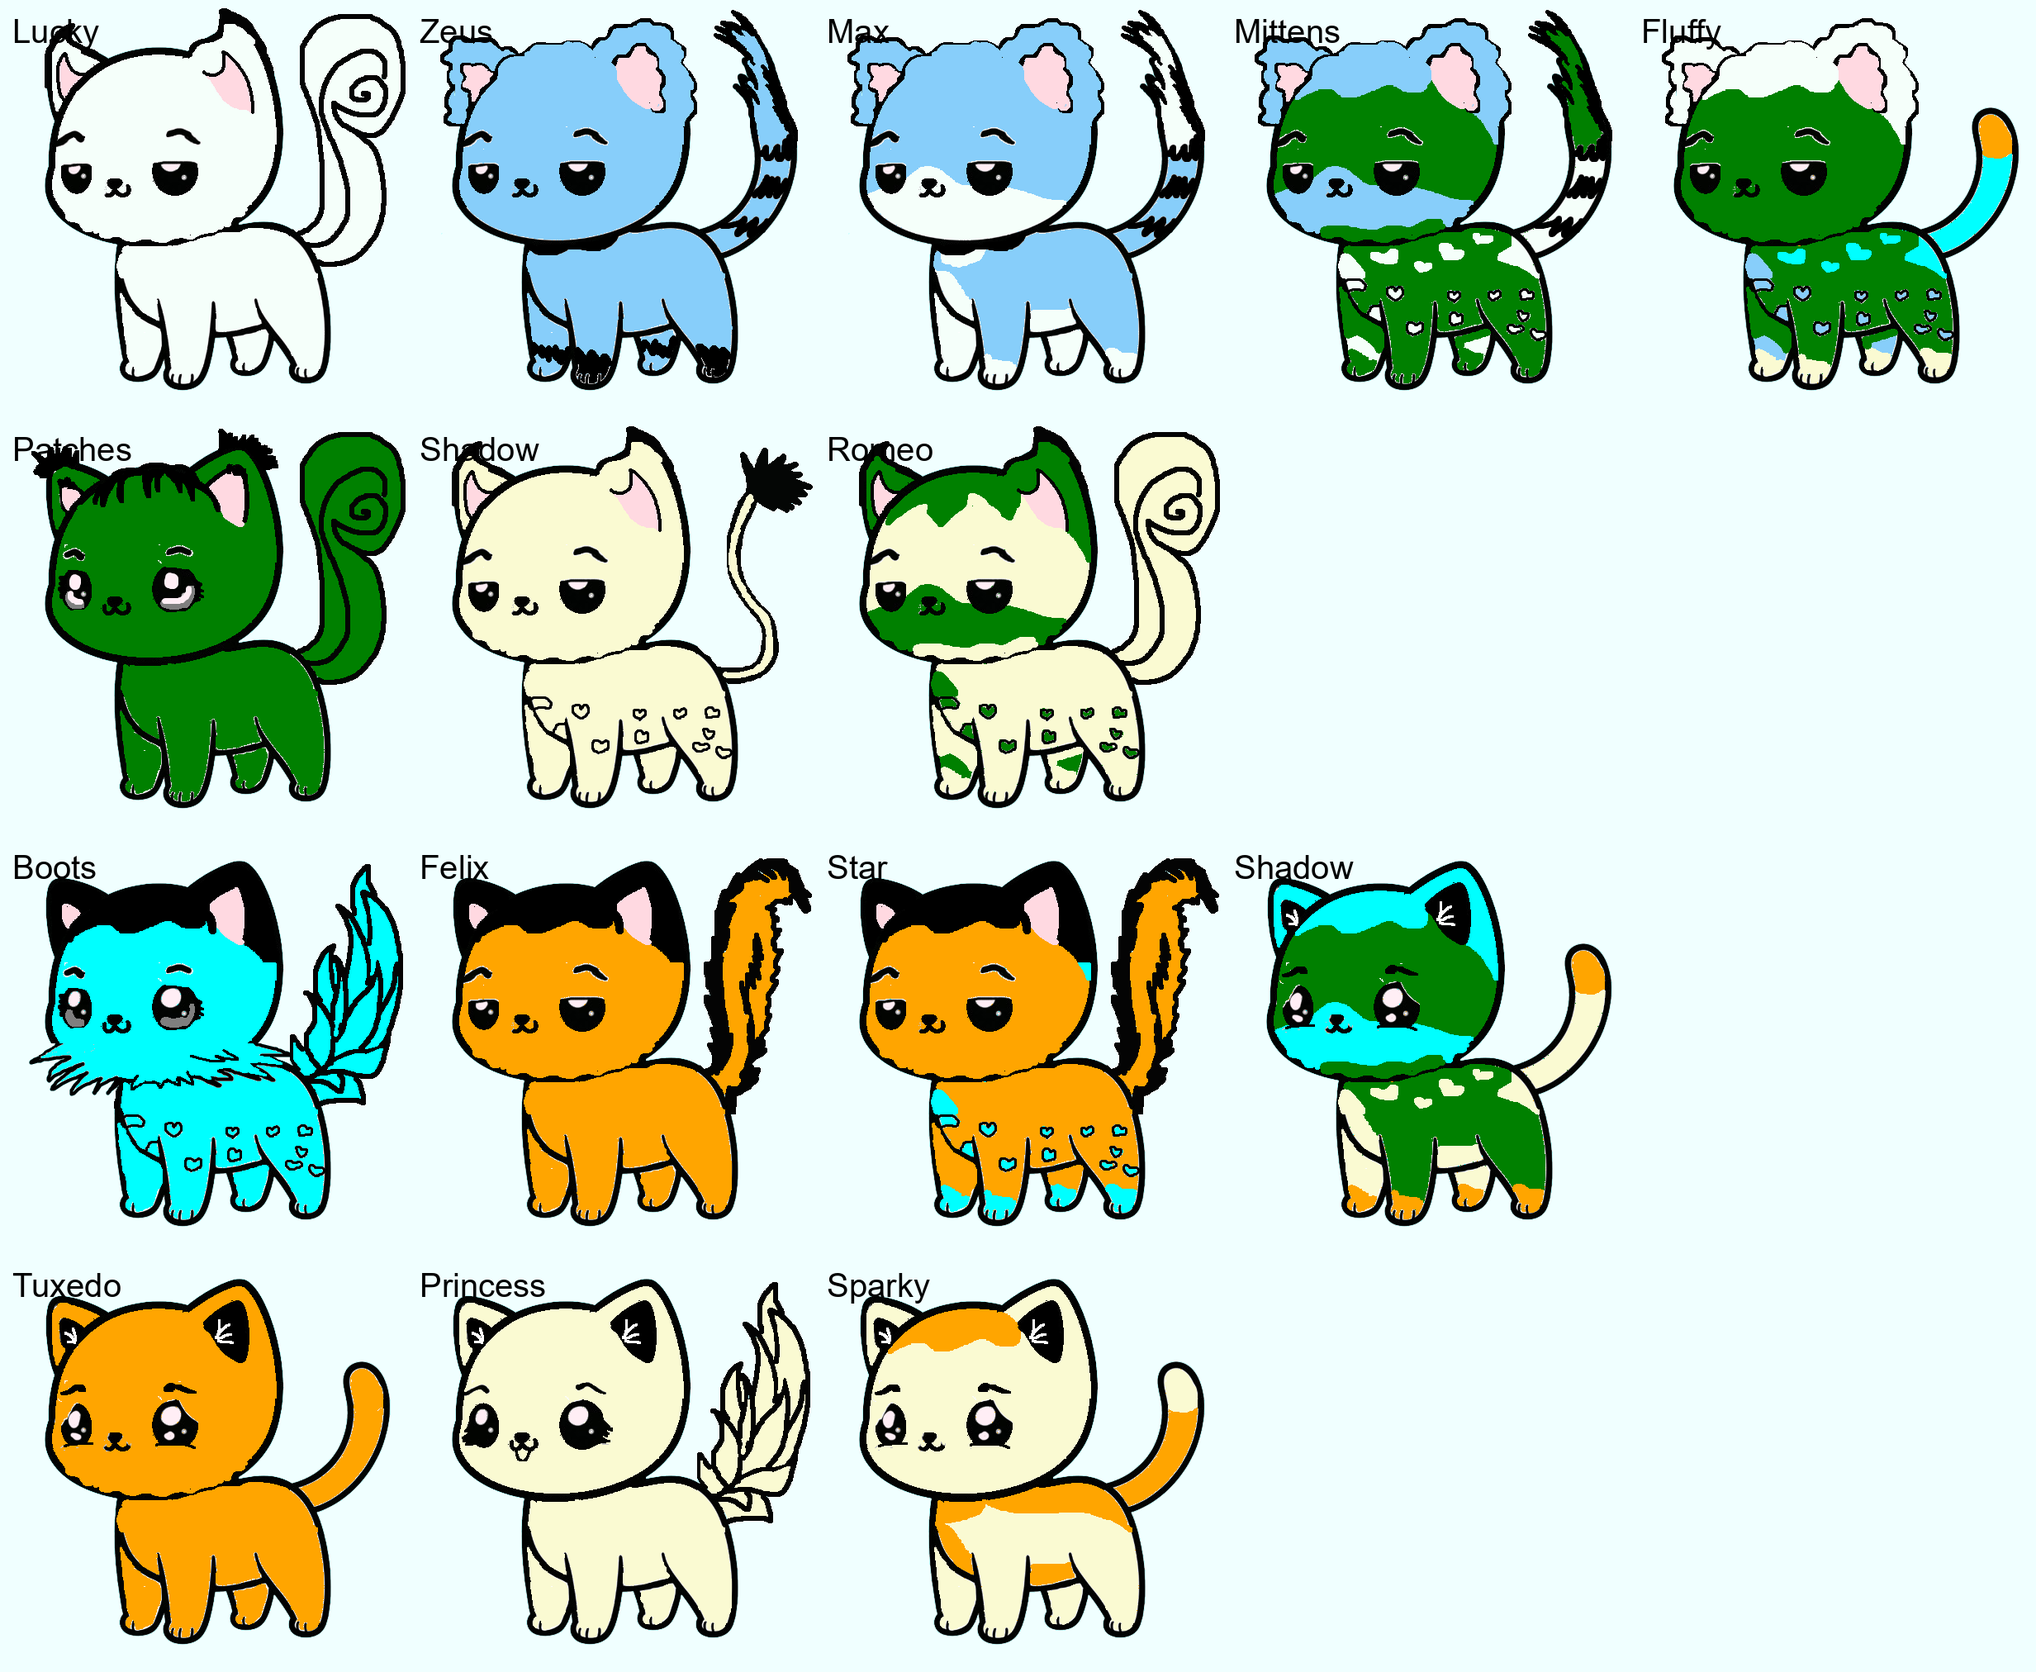
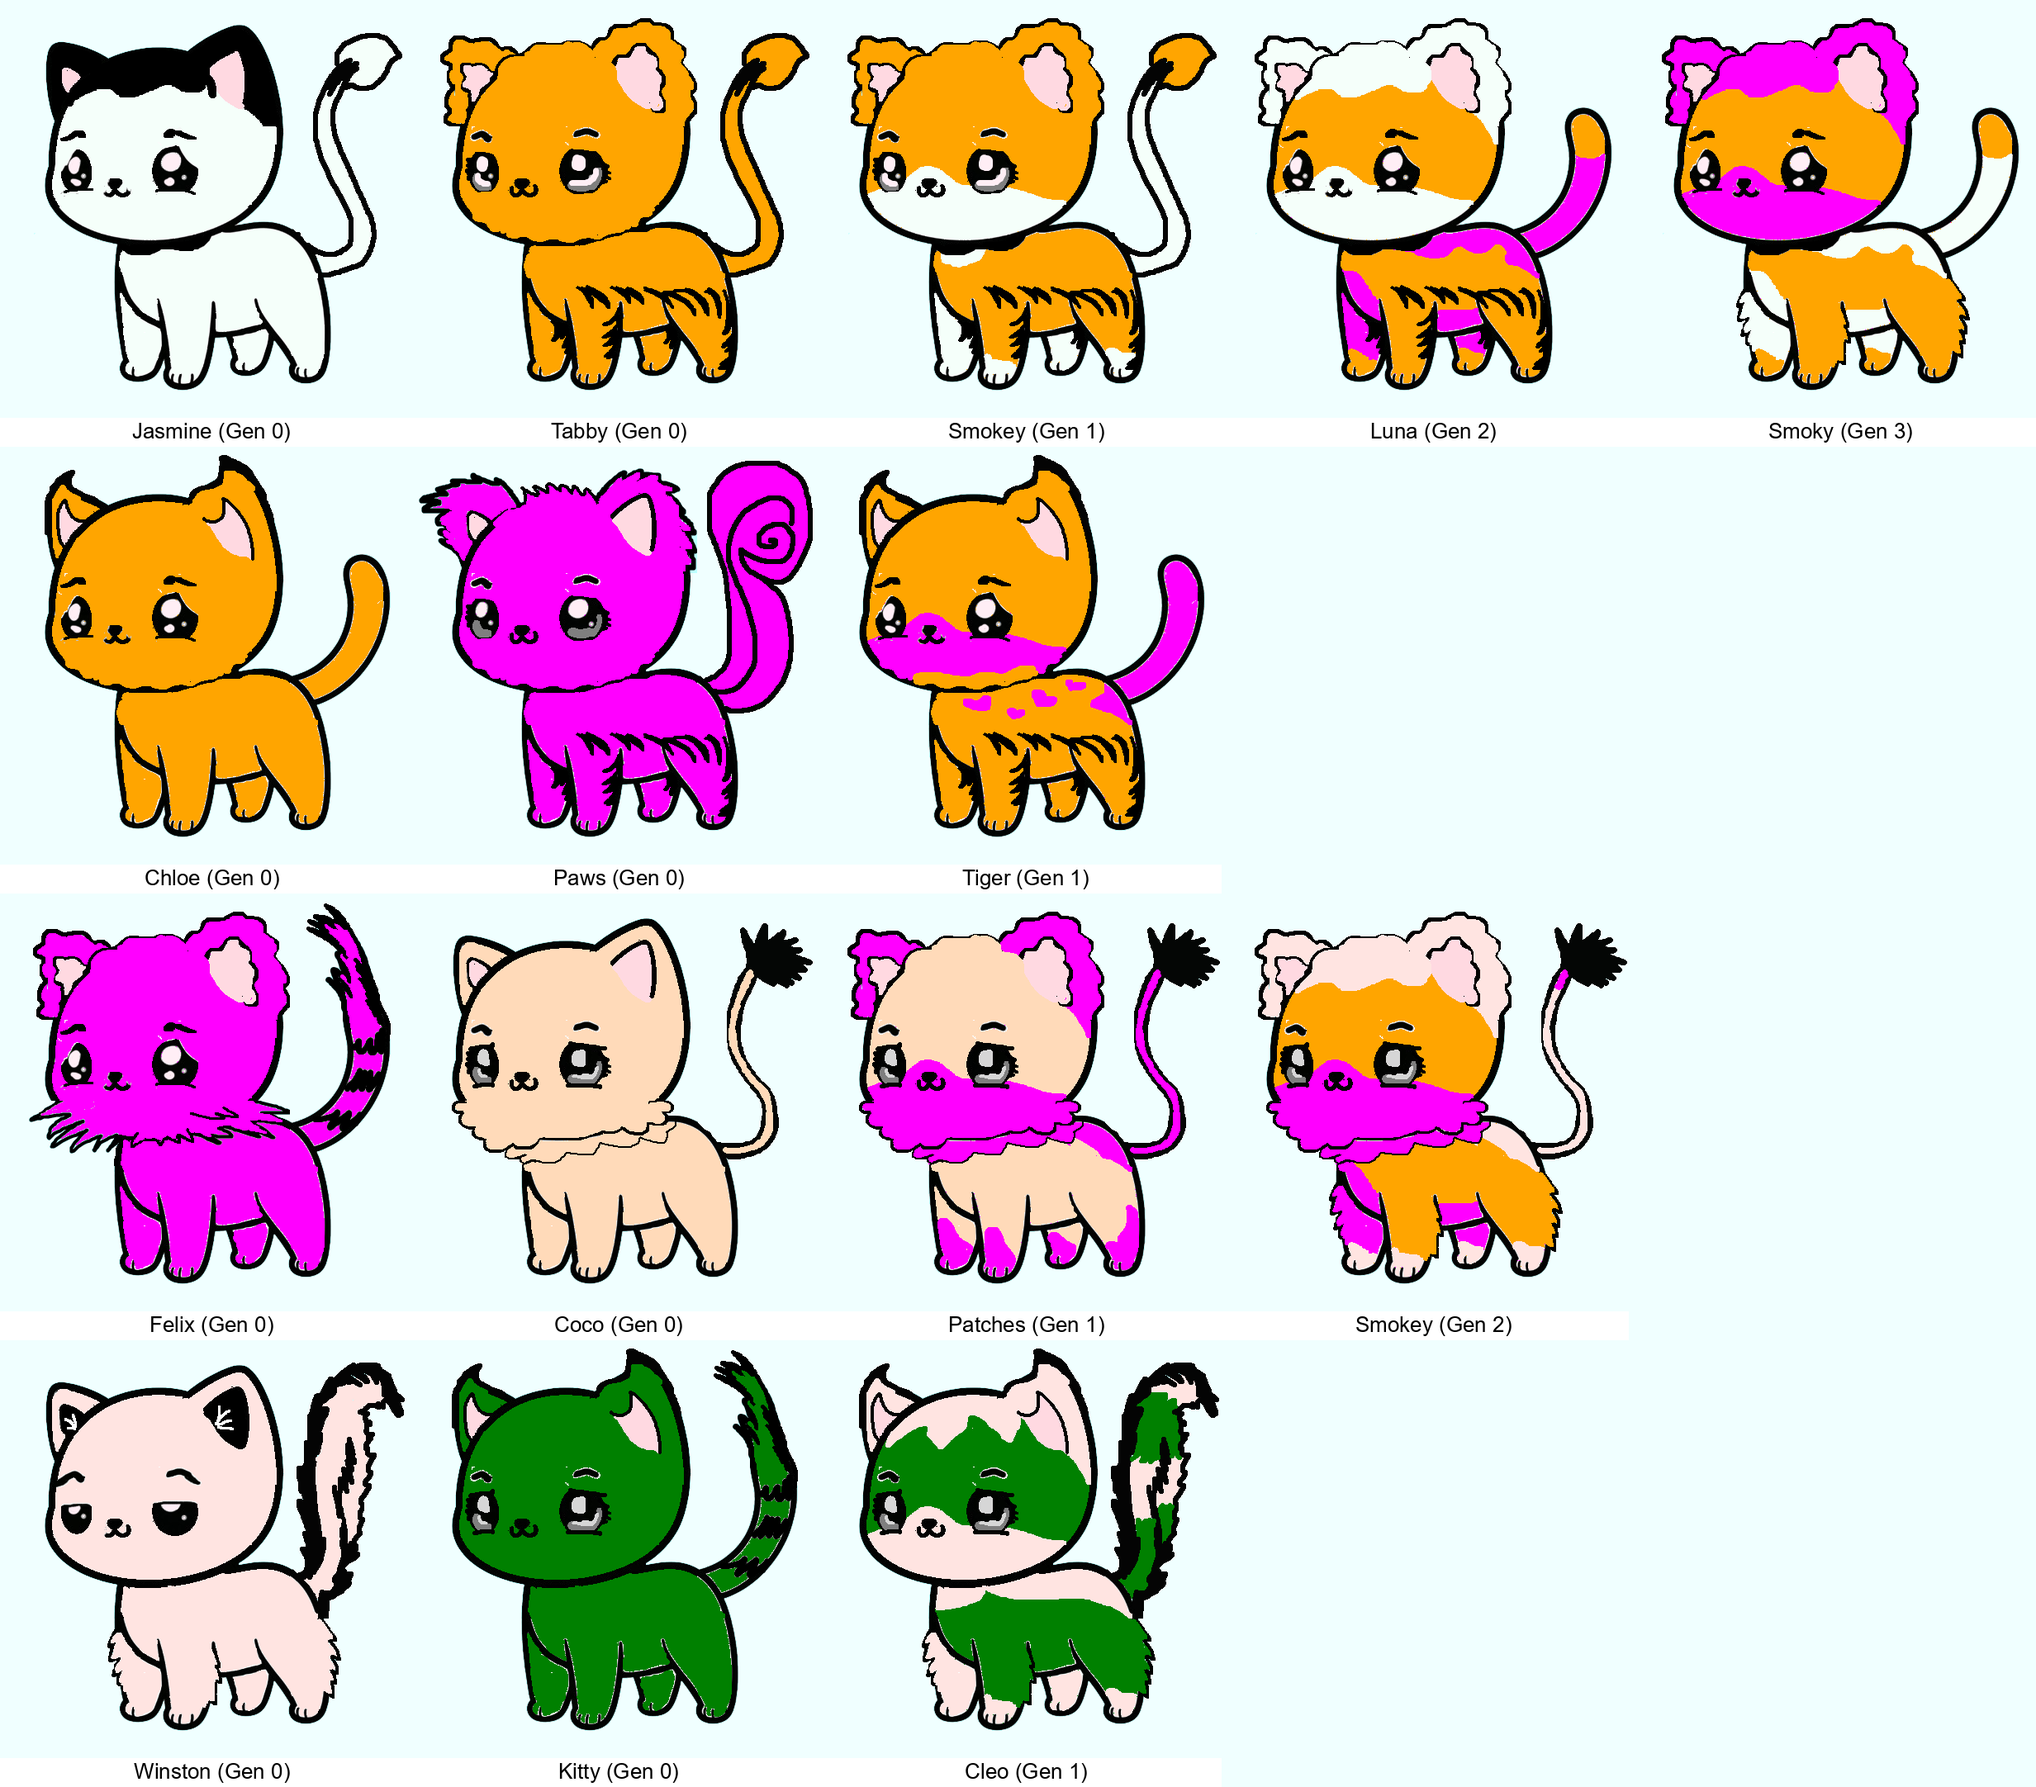
edit_names_positions

diff --git a/cat.py b/cat.py
@@ -59,8 +59,9 @@ class ParentCat(Cat):
         # Apply coloring
         img = CatImageBuilder.apply_color_numpy(img, color_map)
         
-        # Add name
-        CatImageBuilder.add_text(img, self.name)
+        # Add name with generation info
+        display_name = f"{self.name} (Gen {self.generation})"
+        CatImageBuilder.add_text(img, display_name)
         
         self.image = img
         logger.info(f"Generated image for parent cat: {self.name}")
@@ -137,8 +138,9 @@ class KittenCat(Cat):
         # Apply coloring
         img = CatImageBuilder.apply_color_numpy(img, color_map)
         
-        # Add name
-        CatImageBuilder.add_text(img, self.name)
+        # Add name with generation info
+        display_name = f"{self.name} (Gen {self.generation})"
+        CatImageBuilder.add_text(img, display_name)
         
         self.image = img
         logger.info(f"Generated image for kitten: {self.name}")
@@ -148,15 +150,15 @@ class KittenCat(Cat):
 class GrandKittenCat(Cat):
     """Represents a grandkitten with more complex color inheritance"""
     
-    def __init__(self, name: str, parent1: KittenCat, parent2: KittenCat,
+    def __init__(self, name: str, parent1, parent2,
                  parts: Dict[str, Image.Image]):
         """
         Initialize a grandkitten
         
         Args:
             name: Grandkitten's name
-            parent1: First parent (kitten)
-            parent2: Second parent (kitten)
+            parent1: First parent (kitten or grandkitten)
+            parent2: Second parent (kitten or grandkitten)
             parts: Body parts (inherited)
         """
         super().__init__(name, parent1.color, parts)
@@ -164,8 +166,13 @@ class GrandKittenCat(Cat):
         self.parent2 = parent2
         self.colors_used: List[RGB] = []
         self.main_color: Optional[RGB] = None
-        self.generation = 2
-        logger.debug(f"Created grandkitten: {name}")
+        # Determine generation based on parents
+        # If both parents are GrandKittenCat, this is generation 3
+        if isinstance(parent1, GrandKittenCat) and isinstance(parent2, GrandKittenCat):
+            self.generation = 3
+        else:
+            self.generation = 2
+        logger.debug(f"Created grandkitten: {name} (Generation {self.generation})")
     
     def generate_image(self, main_colors_pool: List[RGB]) -> Image.Image:
         """
@@ -211,8 +218,9 @@ class GrandKittenCat(Cat):
         # Apply coloring
         img = CatImageBuilder.apply_color_numpy(img, color_map)
         
-        # Add name
-        CatImageBuilder.add_text(img, self.name)
+        # Add name with generation info
+        display_name = f"{self.name} (Gen {self.generation})"
+        CatImageBuilder.add_text(img, display_name)
         
         self.image = img
         logger.info(f"Generated image for grandkitten: {self.name}")

diff --git a/image_processing.py b/image_processing.py
@@ -159,8 +159,14 @@ class CatImageBuilder:
         final_image.paste(combined_image, (0, 0))
         final_image.paste(legs, ((final_width - legs.width) // 2, vertical_height))
         
+        # Add padding at bottom for text (name + generation)
+        text_padding = GENERATION_PARAMS.get('text_padding_bottom', 35)
+        final_height = vertical_height + legs.height + text_padding
+        padded_image = Image.new('RGB', (final_width, final_height), (255, 255, 255))
+        padded_image.paste(final_image, (0, 0))
+        
         logger.debug("Combined all cat parts into single image")
-        return final_image
+        return padded_image
     
     @staticmethod
     def apply_color_numpy(img: Image.Image, color_map: Dict[RGB, RGB]) -> Image.Image:
@@ -202,12 +208,11 @@ class CatImageBuilder:
         Args:
             img: Image to modify
             text: Text to add
-            position: (x, y) position for text
+            position: (x, y) position for text (if None, places at bottom)
             font_name: Font file name
             font_size: Font size
             color: Text color
         """
-        position = position or GENERATION_PARAMS['text_position']
         font_name = font_name or GENERATION_PARAMS['font_name']
         font_size = font_size or GENERATION_PARAMS['font_size']
         color = color or GENERATION_PARAMS['text_color']
@@ -218,6 +223,19 @@ class CatImageBuilder:
         except IOError:
             logger.warning(f"Font '{font_name}' not found, using default")
             font = ImageFont.load_default()
+        
+        # If position not specified, place text at bottom center
+        if position is None:
+            # Get text bounding box to center it
+            bbox = draw.textbbox((0, 0), text, font=font)
+            text_width = bbox[2] - bbox[0]
+            text_height = bbox[3] - bbox[1]
+            
+            # Calculate position: centered horizontally, near bottom
+            x_offset, y_offset = GENERATION_PARAMS['text_position']
+            x = (img.width - text_width) // 2 + x_offset
+            y = img.height - text_height - y_offset - 5  # 5 pixels from bottom
+            position = (x, y)
         
         draw.text(position, text, font=font, fill=color)
         logger.debug(f"Added text: {text}")

diff --git a/config.py b/config.py
@@ -62,9 +62,10 @@ CAT_PARTS_FOLDERS: Dict[str, str] = {
 GENERATION_PARAMS = {
     'background_color': (240, 255, 255),  # Background color for family image
     'font_name': 'arial.ttf',       # Font for cat names
-    'font_size': 40,                # Font size
+    'font_size': 26,                # Font size (reduced for longer names with Gen info)
     'text_color': (0, 0, 0),        # Text color
-    'text_position': (15, 15),      # Text position on cat image
+    'text_position': (10, 5),       # Text position on cat image (x: left offset, y: top offset)
+    'text_padding_bottom': 35,      # Extra space at bottom for text
 }
 
 # Output settings

diff --git a/README.md b/README.md
@@ -171,6 +171,81 @@ Row 3: Parent5  Parent6  Kitten3  GrandKitten2
 Row 4: Parent7  Parent8  Kitten4
 ```
 
+### 6. **Family Tree Structure**
+
+The cat family follows this genealogical pattern across 4 generations:
+
+```
+Generation 0 (Parents):
+  ┌─────────┐   ┌─────────┐
+  │ Parent1 │ ♥ │ Parent2 │
+  └────┬────┘   └────┬────┘
+       └────────┬────┘
+                │
+Generation 1 (Kittens):      ┌─────────┐
+                    ┌────────┤ Kitten1 ├────────┐
+                    │        └─────────┘        │
+                    │                           │
+  ┌─────────┐   ┌──┴──────┐                    │
+  │ Parent3 │ ♥ │ Parent4 │                    │
+  └────┬────┘   └────┬────┘                    │
+       └────────┬────┘                          │
+                │                               │
+                │        ┌─────────┐            │
+                └────────┤ Kitten2 ├────────┐   │
+                         └─────────┘        │   │
+                                            │   │
+Generation 2 (Grandkittens):                │   │
+                         ┌──────────────────┴───┴───┐
+                         │         GrandKitten1      │
+                         └────────────┬──────────────┘
+                                      │
+  ┌─────────┐   ┌─────────┐           │
+  │ Parent5 │ ♥ │ Parent6 │           │
+  └────┬────┘   └────┬────┘           │
+       └────────┬────┘                │
+                │                     │
+                │        ┌─────────┐  │
+                └────────┤ Kitten3 ├──┤
+                         └─────────┘  │
+                                      │
+  ┌─────────┐   ┌─────────┐           │
+  │ Parent7 │ ♥ │ Parent8 │           │
+  └────┬────┘   └────┬────┘           │
+       └────────┬────┘                │
+                │                     │
+                │        ┌─────────┐  │
+                └────────┤ Kitten4 ├──┤
+                         └─────────┘  │
+                                      │
+                         ┌────────────┴──────────────┐
+                         │      GrandKitten2         │
+                         └────────────┬──────────────┘
+                                      │
+Generation 3 (Great-Grandkitten):     │
+                         ┌────────────┴──────────────┐
+                         │   GreatGrandKitten        │
+                         └───────────────────────────┘
+```
+
+**Family Relationships:**
+- **Generation 0**: 8 parents (4 pairs)
+  - Parent1 ♥ Parent2 → Kitten1
+  - Parent3 ♥ Parent4 → Kitten2
+  - Parent5 ♥ Parent6 → Kitten3
+  - Parent7 ♥ Parent8 → Kitten4
+
+- **Generation 1**: 4 kittens (forming 2 pairs)
+  - Kitten1 ♥ Kitten2 → GrandKitten1
+  - Kitten3 ♥ Kitten4 → GrandKitten2
+
+- **Generation 2**: 2 grandkittens (forming 1 pair)
+  - GrandKitten1 ♥ GrandKitten2 → GreatGrandKitten
+
+- **Generation 3**: 1 great-grandkitten (final descendant)
+
+Each cat's name is displayed with its generation label (e.g., "Lucky (Gen 0)") to make family relationships clear.
+
 ## ⚙ Configuration
 
 Edit `config.py` to customize:
@@ -187,11 +262,20 @@ CATS_COLORS = [
 ### Generation Parameters
 ```python
 GENERATION_PARAMS = {
-    'background_color': (189, 255, 255),
-    'font_size': 26,
-    # ...
+    'background_color': (240, 255, 255),  # Background color
+    'font_name': 'arial.ttf',             # Font for cat names
+    'font_size': 26,                      # Font size (for names with Gen info)
+    'text_color': (0, 0, 0),              # Text color (black)
+    'text_position': (10, 5),             # Text offset (x: horizontal, y: vertical)
+    'text_padding_bottom': 35,            # Extra space at bottom for text
 }
 ```
+
+**Text Position Parameters:**
+- `text_position`: `(x, y)` offset for fine-tuning text placement
+  - `x`: horizontal offset from center (positive = right, negative = left)
+  - `y`: vertical offset from bottom (higher value = more space from bottom)
+- `text_padding_bottom`: extra white space added below each cat for the name label
 
 ### Output Settings
 ```python
